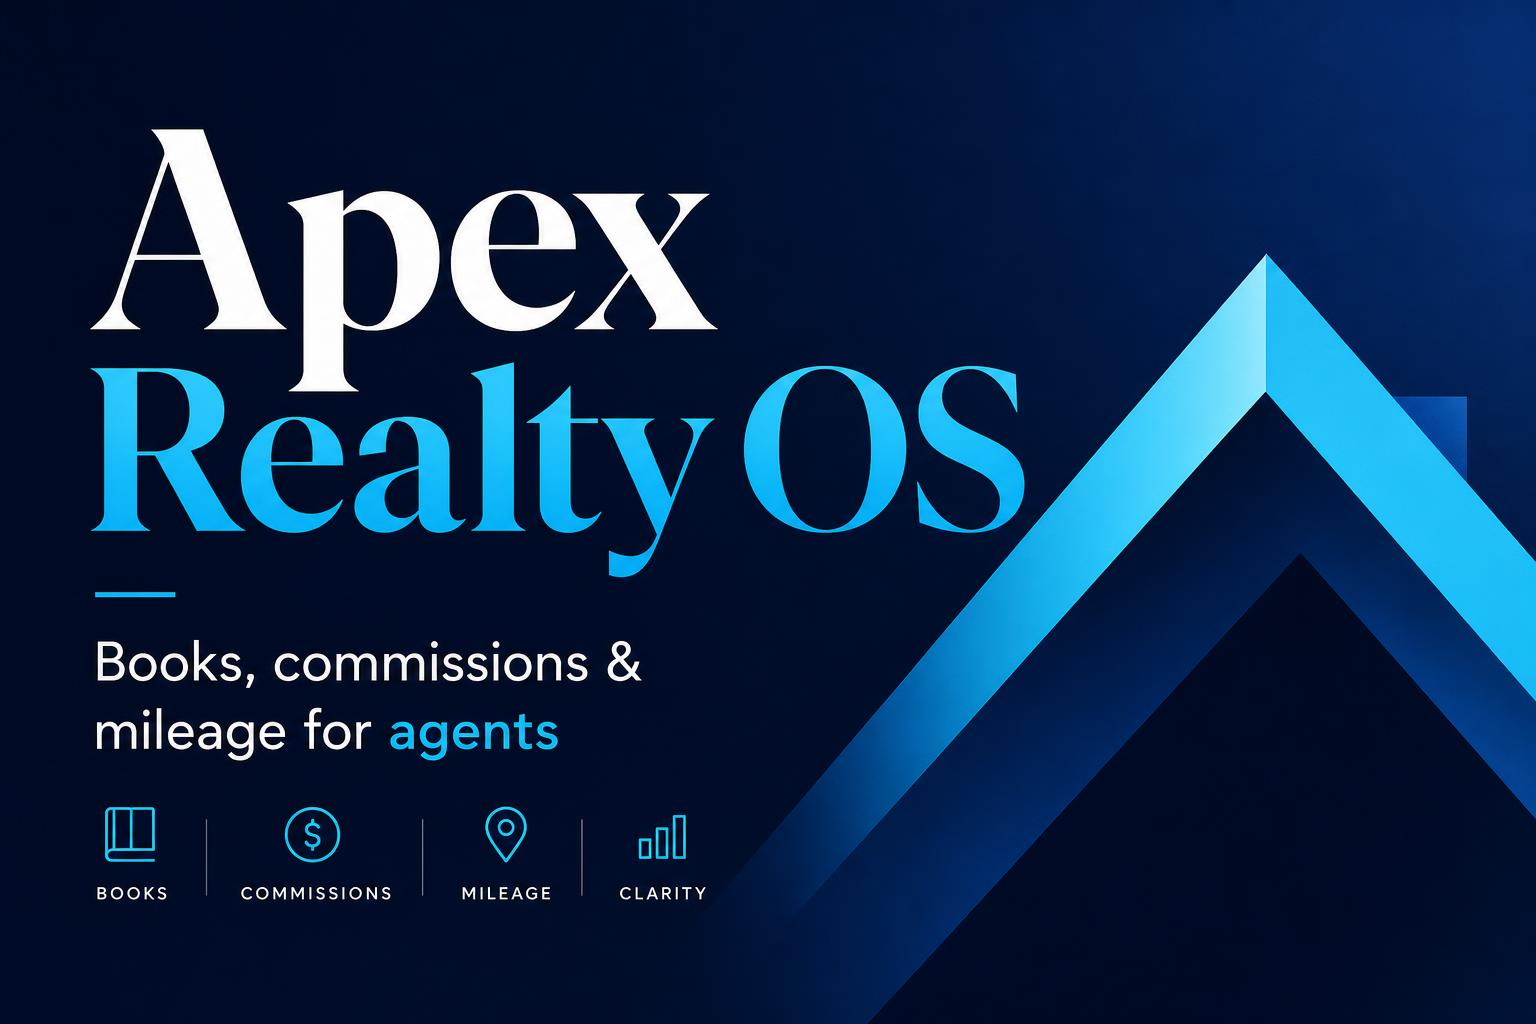
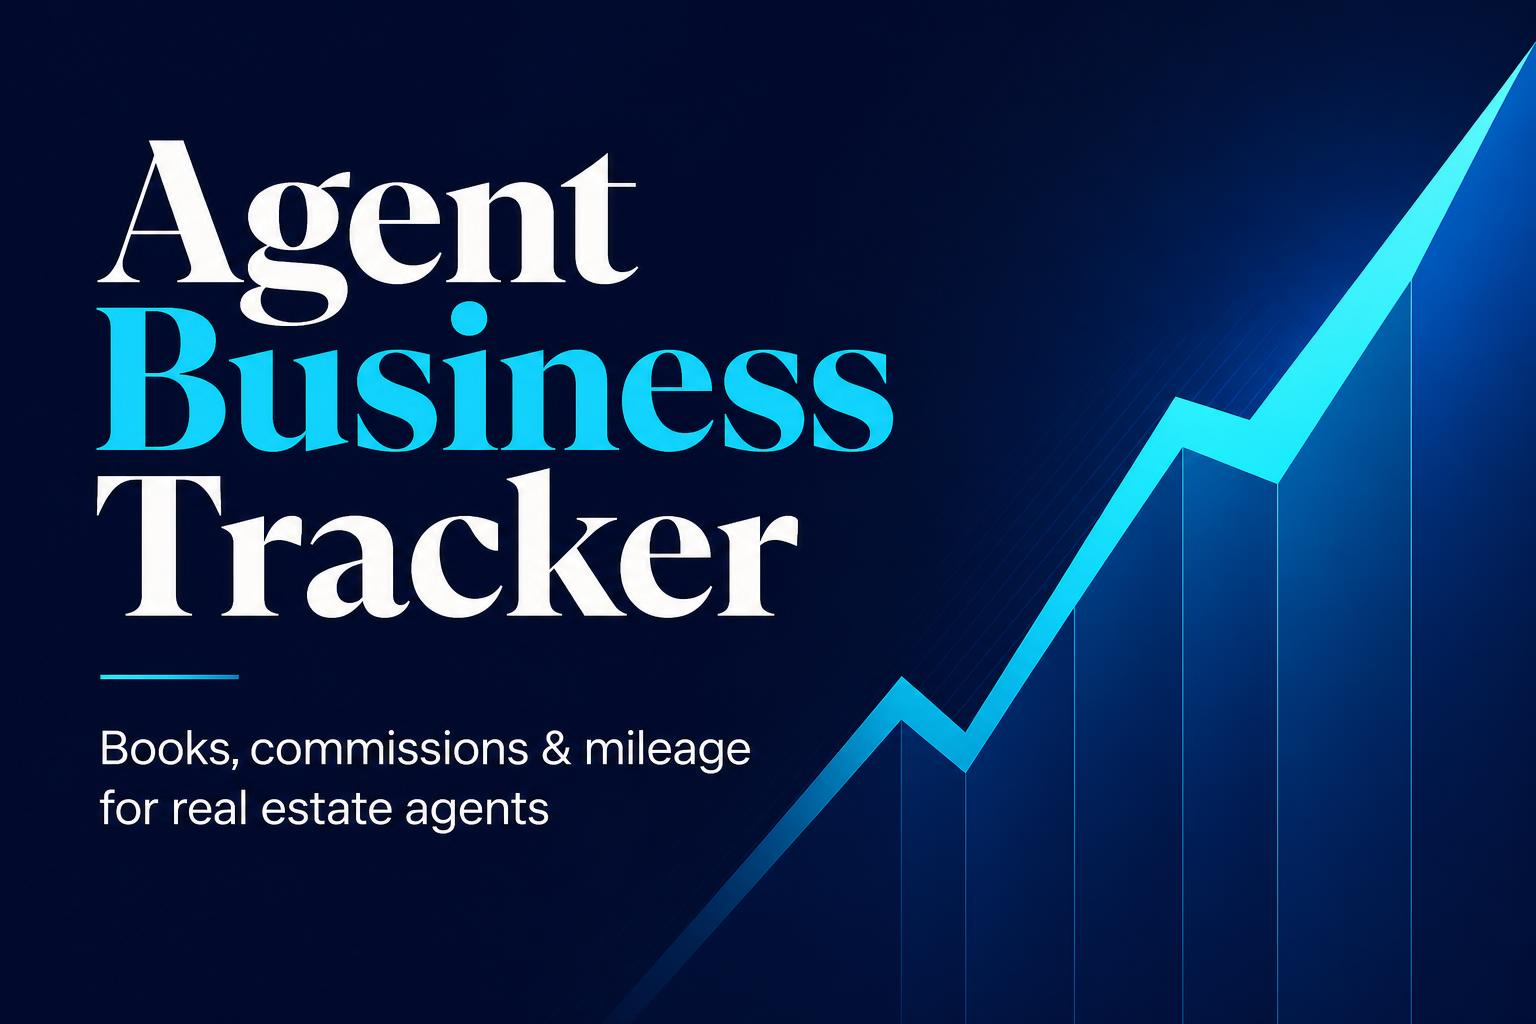
Changes

diff --git a/src/routes/__root.tsx b/src/routes/__root.tsx
@@ -29,10 +29,10 @@ export const Route = createRootRoute({
     meta: [
       { charSet: "utf-8" },
       { name: "viewport", content: "width=device-width, initial-scale=1" },
-      { title: "Agent Tracker OS — Business tracker for brokers & agents" },
+      { title: "Agent Business Tracker — Business tracker for brokers & agents" },
       { name: "description", content: "QuickBooks for real estate. Track deals, commissions, invoices, expenses, mileage and clients in one cockpit." },
-      { property: "og:title", content: "Agent Tracker OS — Business tracker for brokers & agents" },
-      { name: "twitter:title", content: "Agent Tracker OS — Business tracker for brokers & agents" },
+      { property: "og:title", content: "Agent Business Tracker — Business tracker for brokers & agents" },
+      { name: "twitter:title", content: "Agent Business Tracker — Business tracker for brokers & agents" },
       { property: "og:description", content: "QuickBooks for real estate. Track deals, commissions, invoices, expenses, mileage and clients in one cockpit." },
       { name: "twitter:description", content: "QuickBooks for real estate. Track deals, commissions, invoices, expenses, mileage and clients in one cockpit." },
       { property: "og:image", content: "https://storage.googleapis.com/gpt-engineer-file-uploads/attachments/og-images/1d29e18f-a478-4c8d-b62b-0a4afcdf8c1d" },
